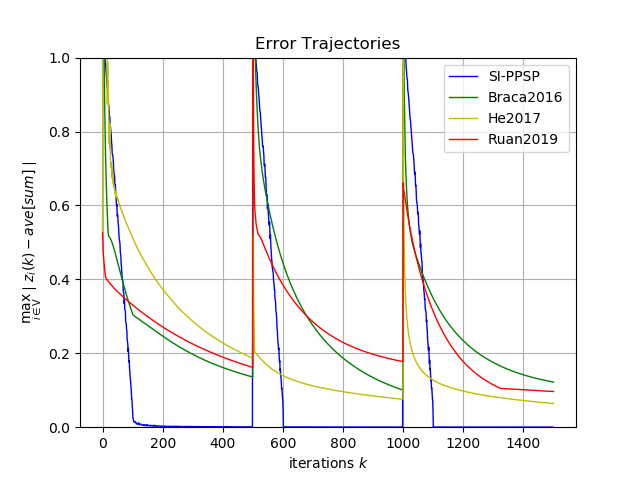
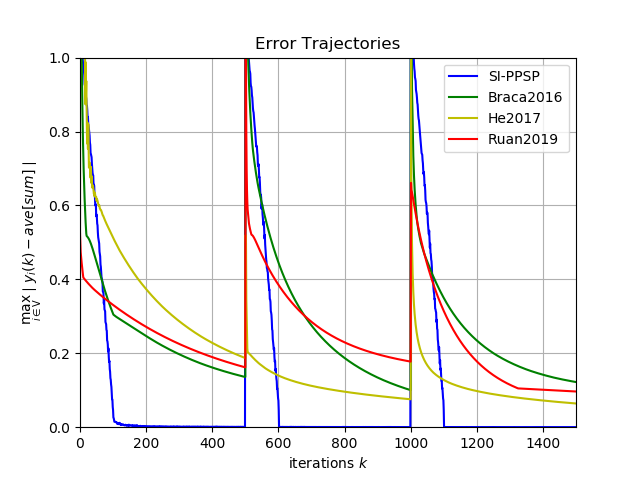
update

diff --git a/evaluation/execute/runner_complexity.py b/evaluation/execute/runner_complexity.py
@@ -14,7 +14,7 @@ BRACA2016 = 'braca2016'
 HE2017 = 'he2017'
 RUAN2019 = 'ruan2019'
 
-repeat = 100
+repeat = 1
 n = 100
 k_max = 500
 init_mean = 1
@@ -43,7 +43,8 @@ def run_yang2020():
                         new_node_state=universal_new_node_state,
                         error_type=error_type,
                         save_data=False)
-    yang2020.run()
+    time_cost = yang2020.run()
+    return time_cost
 
 
 def run_braca2016():
@@ -54,7 +55,8 @@ def run_braca2016():
                           new_node_state=universal_new_node_state,
                           error_type=error_type,
                           save_data=False)
-    braca2016.run()
+    time_cost = braca2016.run()
+    return time_cost
 
 
 def run_he2017():
@@ -66,7 +68,8 @@ def run_he2017():
                     new_node_state=universal_new_node_state,
                     error_type=error_type,
                     save_data=False)
-    he2017.run()
+    time_cost = he2017.run()
+    return time_cost
 
 
 def run_ruan2019():
@@ -79,16 +82,16 @@ def run_ruan2019():
                         key_size=key_size,
                         a_scale=a_scale,
                         save_data=False)
-    ruan2019.run()
+    time_cost = ruan2019.run()
+    return time_cost
 
 
 def save_time(func, alg_name):
     time_consumption = []
     for i in range(repeat):
         print("{}-th repeat".format(i))
-        beg_time = time.time()
-        func()
-        time_consumption.append(time.time() - beg_time)
+        time_cost = func()
+        time_consumption.append(time_cost)
 
     file_name = r'../data/' + alg_name + r'-compl.npy'
     np.save(file_name, time_consumption)

diff --git a/evaluation/algorithm/base_algorithm.py b/evaluation/algorithm/base_algorithm.py
@@ -57,7 +57,9 @@ class PrivacyPreservingSummation(object):
             self._print_iteration()
             self._iterate()
             self._save_trajectory()
-        print(self.algorithm_name + " time used = {}".format(tm.time() - beg_time))
+
+        time_cost = tm.time() - beg_time
+        print(self.algorithm_name + " time used = {}".format(time_cost))
 
         if self.error_type == 'max':
             self._parse_trajectory_max()
@@ -68,6 +70,8 @@ class PrivacyPreservingSummation(object):
 
         if self.save_data:
             self._save_file()
+        else:
+            return time_cost
         print("final error = {}".format(self.trajectory[-1]))
 
     def _save_file(self):
@@ -173,6 +177,5 @@ class PrivacyPreservingSummation(object):
         return (i - 1) % self.n
 
     def _print_iteration(self):
-        return
         if self.k_max <= 100 or self.k % 100 == 0:
             print("iteration k = {}".format(self.k))

diff --git a/evaluation/execute/plotter.py b/evaluation/execute/plotter.py
@@ -19,7 +19,7 @@ def create_traj_figure_name(algorithm_name):
 
 def plot_accuracy():
     # plot properties
-    linewidth = 1
+    linewidth = 1.5
 
     # yang2020
     traj = np.load(create_traj_file_name(YANG2020))
@@ -38,11 +38,12 @@ def plot_accuracy():
     plt.plot(np.linspace(0, len(traj) - 1, len(traj)), traj, 'r', linewidth=linewidth)
 
     # settings
+    plt.xlim((0, 1500))
     plt.ylim((0, 1.0))
     plt.grid(True)
     plt.legend(['SI-PPSP', 'Braca2016', 'He2017', 'Ruan2019'])
     plt.xlabel('iterations $k$')
-    plt.ylabel('$\max_{i\in\mathrm{V}}\mid z_i(k) - ave[sum]\mid$')
+    plt.ylabel('$\max_{i\in\mathrm{V}}\mid y_i(k) - ave[sum]\mid$')
     plt.title(r'Error Trajectories')
     plt.savefig(r'../figure/accuracy.png')
 
